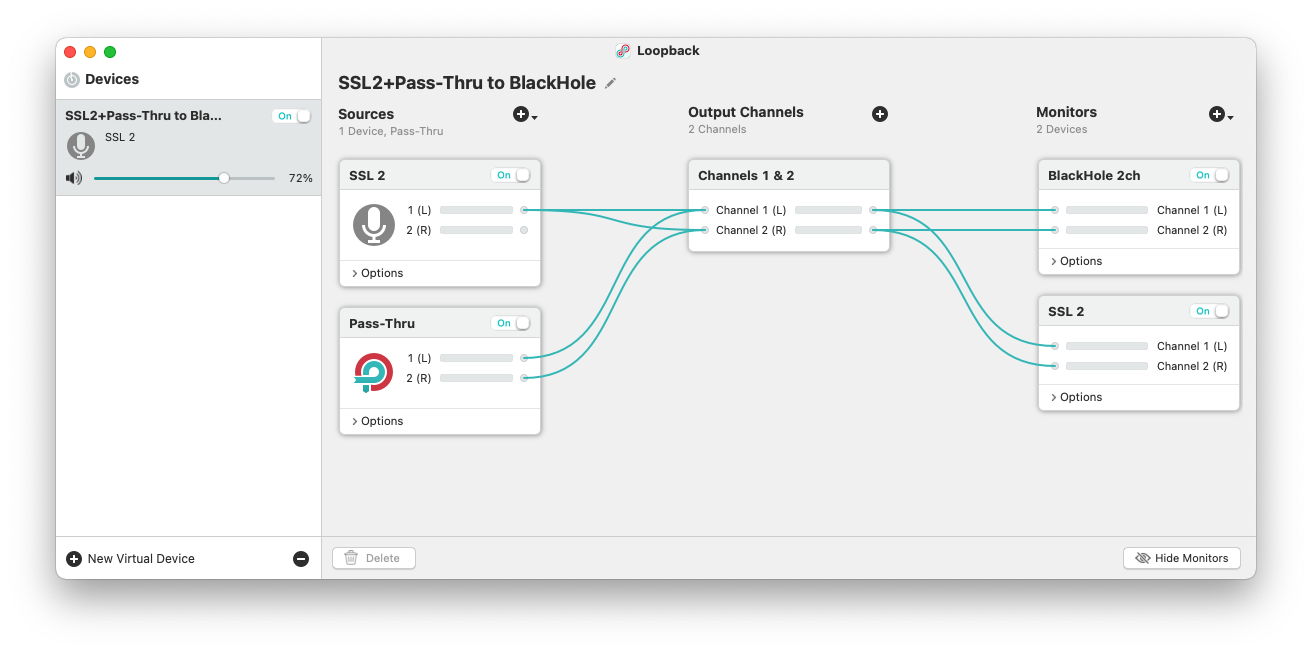
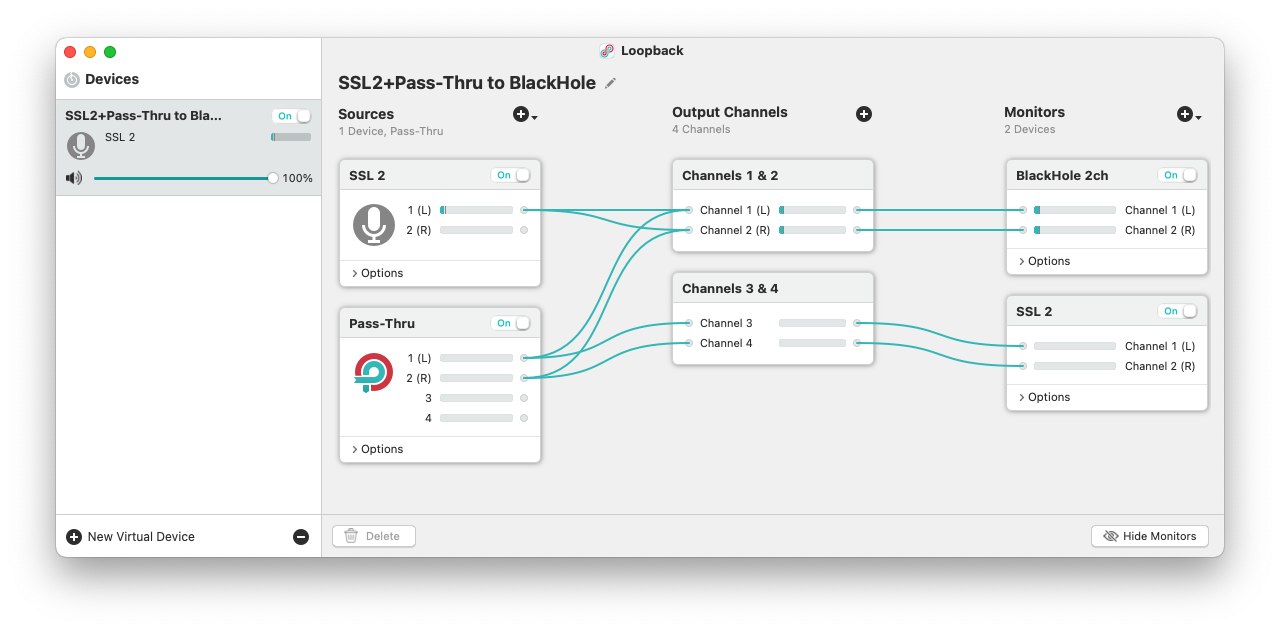
マイクのモニタをオーディオインターフェースで直接する構成に変更

diff --git a/audio_broadcast/index.html b/audio_broadcast/index.html
@@ -223,13 +223,16 @@
     </p>
 
     <p>
-      Loopbackを使えば、オーディオデバイスやアプリのオーディオ出力を繋いでまとめたり、スプリットしたりが自由にできます。チャンネルごとに配線できるので、モノラルの音声をステレオに変換したり、ステレオをモノラルにまとめたりもできます。これと後述のBlackHoleを合わせれば、およそ配信時にやりたい構成はどんなことでもできると思います。Loopbackはそれ自体、仮想オーディオ出力デバイスとして使えます。
+      Loopbackを使えば、オーディオデバイスやアプリのオーディオ出力を繋いでまとめたり、スプリットしたりが自由にできます。チャンネルごとに配線できるので、モノラルの音声をステレオに変換したり、ステレオをモノラルにまとめたりもできます。Loopbackはそれ自体、仮想オーディオ出力デバイスとして使えます。
     </p>
     <p>
       もうひとつキーになるソフトが、<a
         href="https://existential.audio/blackhole/"
         >BlackHole</a
       >という仮想オーディオデバイスで、これひとつで出力デバイス兼入力デバイスとして機能します。このデバイスに対して音を流し込むと、このデバイスを入力として使っているアプリにその音をそのまま取り込めます。つまり、Loopback上でミックスした音をブラウザ等から配信できるのです。
+    </p>
+    <p>
+      LoopbackとBlackHoleを合わせれば、およそ配信時にやりたいどんな構成でも実現できると思います。
     </p>
 
     <div class="Image">
@@ -264,7 +267,9 @@
     </div>
 
     <p>
-      それらの信号は、図3のようにLoopback上でミックスされ、BlackHoleとオーディオインターフェースに再出力されます。オーディオインターフェースはモニター用、BlackHoleはブラウザへの入力に使います。
+      それらの信号は、図3のようにLoopback上でミックスされ、BlackHoleに再出力されます(Channels
+      1&amp;2)。オーディオインターフェースからの入力(マイク)をオーディオインターフェースにもどしてしまうと、モニタリング時に遅延が生じて気持ち悪いので、オーディオンターフェースからの音はBlackHoleにのみ流します。逆にPath-Thruから入ってきたBGM・SEは、二手に分岐させて片方をオーディオインターフェースに流します(Channels
+      3&amp;4)。BlackHoleはブラウザへの入力用、オーディオインターフェースはBGM・SEのモニター用です。
     </p>
 
     <div class="Image">
@@ -288,26 +293,18 @@
     </div>
 
     <p>
-      SSL2には、XLRケーブル入ってきた音と、USBから入ってきた音(=PCからの出力)をどの程度の割合でスピーカーやヘッドフォンに出すかをモニターミックスノブで調整できます。この構成では自分の声もBGM・効果音と一体になって流れてくるため、モニターミックスノブはUSB
-      100%にしておきます。これで、共演者の声を含めすべての音声をモニタリングできます。
+      SSL2には、XLRケーブル入ってきた音と、USBから入ってきた音(=PCからの出力)をどの程度の割合でスピーカーやヘッドフォンに出すかをモニターミックスノブで調整する機能が搭載されています。この構成では、自分の声は、オーディオインターフェースでダイレクトニモニター、BGM・効果音はPCからUSBを通って流れてくるくるため、モニターミックスノブは、INPUTとUSB
+      を半々にしておきます。これで、共演者の声を含めすべての音声をモニタリングできるようになります。
     </p>
 
     <div class="Image Image--mini">
       <img
         class="Image-body"
-        src="A_SSL2_Monitor_Knob.jpg"
-        alt="A SSL2 Monitor Knob"
+        src="SSL2_Monitor_Knob.jpg"
+        alt="SSL2 Monitor Knob"
       />
       <p class="Image-caption">図5 モニターミックスノブは半々でミックス。</p>
     </div>
-
-    <p>以下、いくつかハマった点や注意点があるので書いておきます。</p>
-
-    <h3 class="Heading">マイクの遅延</h3>
-
-    <p>
-      Loopbackを使うということは、マイクの音を一旦PCに取り込んでソフトウェア的に処理してから改めて出力という経路になるため、どうしても遅延が発生します。体感的には数十ミリ秒程度。じゃっかん気にはなりますがOKラインと判断しています。
-    </p>
 
     <h3 class="Heading">ミュートの実現方法</h3>
 
@@ -368,7 +365,7 @@
 
     <p>
       もう一つは、Ableton
-      Liveのようなオーディオインターフェースにマイクからの入力を流し込んでミックスした上で、ブラウザに出力する方法です。これは可能ではあるのですが、DAW必須というの制約がめんどうです。というのも、声劇以外の用途でもマイクと他の音を混ぜて流したいことがあり、それらのケースにはDAWはオーバースペックだからです。その点、より広いケースを柔軟にカバーできるLoopbackを真ん中に置く方が扱いやすいです。Loopbackと同様にマイクの音に遅延が入りますが、これはバッファーのサンプル数を下げることで軽減できます。
+      Liveのようなオーディオインターフェースにマイクからの入力を流し込んでミックスした上で、ブラウザに出力する方法です。これは可能ではあるのですが、DAW必須というの制約がめんどうです。というのも、声劇以外の用途でもマイクと他の音を混ぜて流したいことがあり、それらのケースにはDAWはオーバースペックだからです。その点、より広いケースを柔軟にカバーできるLoopbackを真ん中に置く方が扱いやすいです。また、iこの構成では、マイクの音をDAW経由でモニターすることになるため遅延が入ります。バッファーのサンプル数を下げることである程度軽減はできますが、やはり気になります。
     </p>
 
     <div class="Image">
